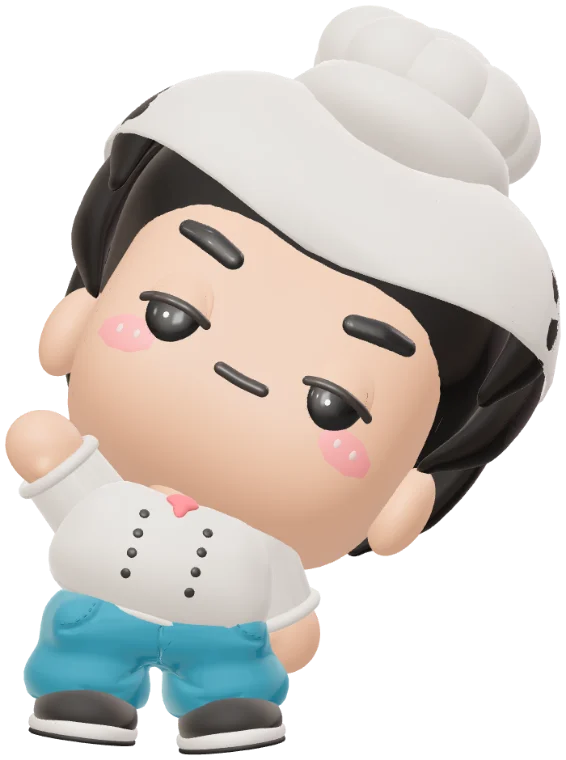
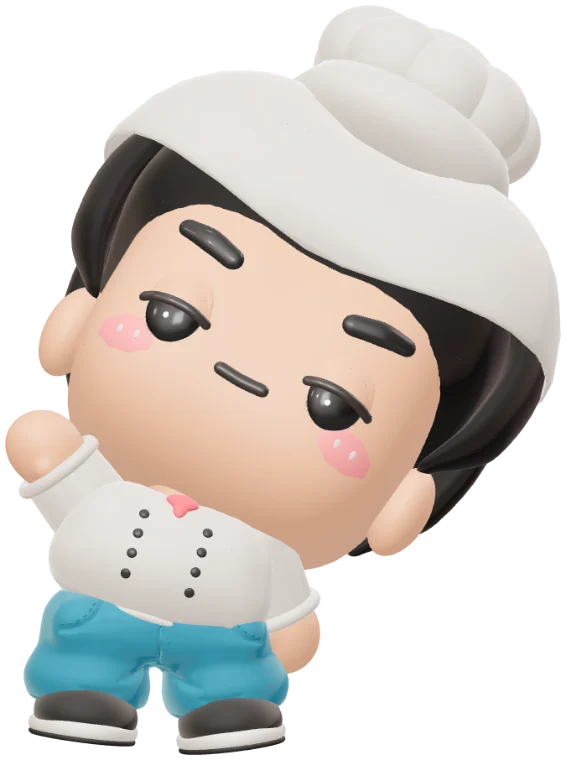
Cocina: estaciones más limpias y bien acomodadas
- Al cambiar de estación, la nueva entra deslizándose y el riel y la barra se quedan quietos
- El vidrio de vasos, jarras y licuadora se ve limpio (sin granito) y las sombras ya no dejan rectángulos
- La carita del chef en la esquina muestra la cara (no solo el gorro) y a Él ya no se le salen mechones por el gorro
- El frasco de propinas pasa a la punta izquierda y «Tomar pedido» queda en el mostrador, delante del que pide
- Tanques de jugo y batidora caben enteros; los tanques van sobre su repisa de acero
- Los íconos de las pestañas caben en su botón (el cuchillo ya no atraviesa la barra)
- En «Picar», una silueta que late marca dónde va el vaso
- El «modo chef» va con el reloj del juego (no se adelanta en celulares lentos)

Claude-Session: https://claude.ai/code/session_01ESjdawmRFTgFfECTU8TBzn

diff --git a/juego/web/src/casa/cocina/motor.ts b/juego/web/src/casa/cocina/motor.ts
@@ -652,11 +652,13 @@ export class Motor {
     this.capa('');
     [0, 0.5, 1, 1.5].forEach((d) => nota(220 + d * 110, 0.5, d, 'sine', 0.03, 440 + d * 220));
     rumor(2.4, 300, 0.05, 0.4, 0.5, 2600);
-    setTimeout(() => {
-      if (this.vista !== 'intro') return;
-      [523, 659, 784, 1046].forEach((f, i) => nota(f, 0.3, i * 0.08, 'triangle', 0.06));
-    }, 2250);
-    setTimeout(() => this.vista === 'intro' && this.terminarIntro(), 4600);
+  }
+  /** El «modo chef» va con el reloj del juego (en un celular lento o en segundo plano no se adelanta ni se corta). */
+  private pasoIntro(dt: number) {
+    const antes = this.introT;
+    this.introT += dt;
+    if (antes < 2.25 && this.introT >= 2.25) [523, 659, 784, 1046].forEach((f, i) => nota(f, 0.3, i * 0.08, 'triangle', 0.06));
+    if (this.introT > 4.6) this.terminarIntro();
   }
   private terminarIntro() {
     if (this.vista !== 'intro') return;
@@ -826,7 +828,7 @@ export class Motor {
 
   // ------------------------------------------------------------------------------------------- Durante el día
   private paso(dt: number) {
-    if (this.vista === 'intro') this.introT += dt;
+    if (this.vista === 'intro') this.pasoIntro(dt);
     if (this.transicion) {
       this.transicion.t += dt;
       if (this.transicion.t > 0.32) this.transicion = null;
@@ -927,7 +929,7 @@ export class Motor {
     return this.W * 0.52 + (i ? 70 + i * 165 : 0);
   }
   puestoEspera(i: number) {
-    return 150 + (i % 6) * 112;
+    return 196 + (i % 6) * 104;
   }
 
   /** Qué tan bien va la espera (100 = no ha esperado de más). */
@@ -1234,14 +1236,20 @@ export class Motor {
   /** Cambia de estación con una transición suave (la anterior se desliza). */
   irA(i: number) {
     if (i === this.actual) return;
-    const c = document.createElement('canvas');
-    c.width = this.lienzo.width;
-    c.height = this.lienzo.height;
-    c.getContext('2d')!.drawImage(this.lienzo, 0, 0);
+    // Foto de cómo se veía (un solo lienzo que se reusa)
+    const c = this.fotoTransicion ?? (this.fotoTransicion = document.createElement('canvas'));
+    if (c.width !== this.lienzo.width || c.height !== this.lienzo.height) {
+      c.width = this.lienzo.width;
+      c.height = this.lienzo.height;
+    }
+    const gc = c.getContext('2d')!;
+    gc.clearRect(0, 0, c.width, c.height);
+    gc.drawImage(this.lienzo, 0, 0);
     this.transicion = { lienzo: c, t: 0, dir: i > this.actual ? 1 : -1 };
     this.actual = i;
     sonidos.clic();
   }
+  private fotoTransicion: HTMLCanvasElement | null = null;
 
   rectTicket(i: number): Rect {
     return { x: 12 + i * 114, y: 6, w: 106, h: RIEL - 14 };
@@ -1292,13 +1300,29 @@ export class Motor {
       // Si las imágenes todavía están cargando, se vuelve a pintar en el siguiente cuadro
       if (listo) this.fondos.set(this.actual, f);
     }
-    g.drawImage(f, 0, 0);
-    g.setTransform(this.k, 0, 0, this.k, 0, 0);
+    // Transición: la estación nueva entra deslizándose y la vieja se va desvaneciendo (riel y barra quietos)
+    const tr = this.transicion;
+    const ek = tr ? 1 - Math.pow(1 - Math.min(1, tr.t / 0.32), 3) : 1;
+    const dx = tr ? tr.dir * (1 - ek) * this.W * 0.22 : 0;
+    if (dx) {
+      g.fillStyle = '#2b1a10';
+      g.fillRect(0, 0, this.lienzo.width, this.lienzo.height);
+    }
+    g.drawImage(f, dx * this.k, 0);
+    g.setTransform(this.k, 0, 0, this.k, dx * this.k, 0);
     if (this.actual === 0) P.dibujarPedidos(this, g);
     else {
       const e = this.estaciones[this.actual - 1];
       e.dibujar(g, this.reloj);
       if (e.usaTicket) P.dibujarTicketGrande(this, g);
+    }
+    if (tr) {
+      const y0 = Math.floor(RIEL * this.k), y1 = Math.ceil((this.H - BARRA) * this.k);
+      g.setTransform(1, 0, 0, 1, 0, 0);
+      g.globalAlpha = 1 - ek;
+      g.drawImage(tr.lienzo, 0, y0, tr.lienzo.width, y1 - y0, -tr.dir * ek * this.lienzo.width * 0.3, y0, tr.lienzo.width, y1 - y0);
+      g.globalAlpha = 1;
+      g.setTransform(this.k, 0, 0, this.k, 0, 0);
     }
     this.fx.dibujar(g);
     for (const fl of this.flotantes) {
@@ -1312,14 +1336,6 @@ export class Motor {
     P.dibujarBarra(this, g);
     if (this.pista && this.reloj < this.pista.hasta) P.dibujarPista(this, g, this.pista.texto);
     if (this.s.fase === 'juicio' && this.s.juicio) P.dibujarJuicio(this, g, this.s.juicio, this.reloj - this.juicioVisto.t0);
-    if (this.transicion) {
-      const k = Math.min(1, this.transicion.t / 0.32);
-      const e = 1 - Math.pow(1 - k, 3);
-      g.setTransform(1, 0, 0, 1, 0, 0);
-      g.globalAlpha = 1 - e;
-      g.drawImage(this.transicion.lienzo, -this.transicion.dir * e * this.lienzo.width * 0.35, 0);
-      g.globalAlpha = 1;
-    }
   }
 
   /** Dibuja un botón de la estación (los de las estaciones usan el mismo estilo). */
@@ -1335,8 +1351,17 @@ export class Motor {
   }
 
   /** Para las pruebas. */
-  probar(que: 'llegar' | 'tomar' | 'fin' | 'jugar' | 'intro' | 'juicio', v = 0) {
+  probar(que: 'llegar' | 'tomar' | 'fin' | 'jugar' | 'intro' | 'juicio' | 'avanzar', v = 0) {
     if (que === 'intro') this.terminarIntro();
+    // Adelanta el juego `v` segundos de una (a 30 cuadros, sin dibujar) y pinta el resultado
+    if (que === 'avanzar') {
+      for (let i = 0; i < Math.round(v * 30); i++) {
+        this.reloj += 1 / 30;
+        this.paso(1 / 30);
+      }
+      this.dibujar();
+      return;
+    }
     if (que === 'jugar') {
       this.terminarIntro();
       if (this.anfitrion) this.jugar();

diff --git a/juego/web/src/casa/cocina/pantallas.ts b/juego/web/src/casa/cocina/pantallas.ts
@@ -388,7 +388,8 @@ export function dibujarPedidos(m: Motor, g: G) {
   }
   const ix = W * 0.52 + 190, iy = my + 26;
   spr(g, 'impresora', ix, iy, 64);
-  const jx = W - 110;
+  // El frasco de propinas en la punta izquierda del mostrador (no tapa la fila, que va a la derecha)
+  const jx = 74;
   if (!spr(g, 'propinas', jx, my + 28, 120)) {
     g.fillStyle = 'rgba(220,240,255,0.55)';
     rr(g, jx - 30, my - 58, 60, 66, 12);
@@ -402,7 +403,8 @@ export function dibujarPedidos(m: Motor, g: G) {
   const pidiendo = s.invitados.some((x) => x.estado === 'pidiendo');
   m.botonTomar = null;
   if (e && !pidiendo && s.fase === 'jugando') {
-    const r = { x: W * 0.52 - 560, y: my - 128, w: 250, h: 72 };
+    // En el frente del mostrador, justo delante del que está pidiendo
+    const r = { x: m.puestoFila(0) - 135, y: my + 22, w: 270, h: 62 };
     m.botonTomar = r;
     const lat = 1 + Math.sin(m.reloj * 5) * 0.035;
     g.save();
@@ -529,6 +531,9 @@ function fondoRiel(m: Motor, g: G) {
   g.drawImage(rielCache.c, 0, 0, W, RIEL);
 }
 
+/** Recorte de la cara en los recortes del chef (el gorro ocupa la parte de arriba). */
+const CARA_CHEF = [0.14, 0.31, 0.72];
+
 function carita(m: Motor, g: G, src: HTMLImageElement, x: number, y: number, r: number, borde = '#fff3e4', recorte = [0.14, 0.06, 0.72]) {
   g.fillStyle = borde;
   elipse(g, x, y, r + 3, r + 3);
@@ -581,7 +586,7 @@ export function dibujarRiel(m: Motor, g: G) {
     }
     // En pareja: la carita del otro en el tiquete que tiene escogido
     if (otro && otro.act === t.id) {
-      carita(m, g, m.img(`./cocina/gente/${m.sync!.otroRol}_chef_feliz.webp`), rr2.x + 14, rr2.y + rr2.h - 26, 13, '#ff8fb8');
+      carita(m, g, m.img(`./cocina/gente/${m.sync!.otroRol}_chef_feliz.webp`), rr2.x + 14, rr2.y + rr2.h - 26, 13, '#ff8fb8', CARA_CHEF);
     }
     g.restore();
   });
@@ -594,10 +599,10 @@ export function dibujarRiel(m: Motor, g: G) {
   texto(g, `🪙 ${m.s.propinas}`, xr, 70, { tam: 22, color: '#ffd46b', alinear: 'right' });
   const pose = m.reloj < m.caraChef.hasta ? m.caraChef.pose : 'concentrado';
   const yo = m.img(`./cocina/gente/${m.rol}_chef_${pose}.webp`);
-  carita(m, g, yo, W - 142, RIEL / 2, 38, '#ffd9a8', [0.12, 0.02, 0.76]);
+  carita(m, g, yo, W - 142, RIEL / 2, 38, '#ffd9a8', CARA_CHEF);
   if (m.otro && m.sync) {
     const o2 = m.img(`./cocina/gente/${m.sync.otroRol}_chef_feliz.webp`);
-    carita(m, g, o2, W - 206, RIEL / 2 + 14, 24, '#ff8fb8', [0.12, 0.02, 0.76]);
+    carita(m, g, o2, W - 206, RIEL / 2 + 14, 24, '#ff8fb8', CARA_CHEF);
   }
 }
 
@@ -629,7 +634,7 @@ export function dibujarBarra(m: Motor, g: G) {
     rr(g, r.x, y, r.w, r.h, 16);
     g.stroke();
     const tieneIcono = hay(nombres[i].icono);
-    if (tieneIcono) spr(g, nombres[i].icono, r.x + 34, y + r.h / 2 + 2, iconoTam(nombres[i].icono));
+    if (tieneIcono) iconoEn(g, nombres[i].icono, r.x + 34, y + r.h / 2 + 2, 54, 48);
     texto(g, tieneIcono ? nombres[i].nombre : `${nombres[i].emoji} ${nombres[i].nombre}`, r.x + (tieneIcono ? 62 : r.w / 2), y + r.h / 2 + 2,
       { tam: 23, color: '#4a2a10', max: r.w - (tieneIcono ? 70 : 16), alinear: tieneIcono ? 'left' : 'center' });
     if (alerta && !act) {
@@ -639,16 +644,17 @@ export function dibujarBarra(m: Motor, g: G) {
       g.fill();
       texto(g, '!', r.x + r.w - 10, y + 9, { tam: 14, color: '#fff' });
     }
-    if (otro && otro.est === i && m.sync) carita(m, g, m.img(`./cocina/gente/${m.sync.otroRol}_chef_feliz.webp`), r.x + r.w - 14, y - 4, 15, '#ff8fb8');
+    if (otro && otro.est === i && m.sync) carita(m, g, m.img(`./cocina/gente/${m.sync.otroRol}_chef_feliz.webp`), r.x + r.w - 14, y - 4, 15, '#ff8fb8', CARA_CHEF);
   });
 }
 
 /** Tamaño de cada ícono de pestaña (para que todos se vean del mismo alto). */
-function iconoTam(id: string) {
+/** Dibuja el recorte `id` centrado en (cx, cy) y metido en una caja de an × al (el cuchillo largo no se sale). */
+export function iconoEn(g: G, id: string, cx: number, cy: number, an: number, al: number) {
   const r = recorte(id);
-  if (!r) return 30;
-  const altoPx = r.a, refPx = r.ref * r.ppm;
-  return (46 / altoPx) * refPx;
+  if (!r) return false;
+  const k = Math.min(an / r.w, al / r.a);
+  return spr(g, id, cx - (r.w / 2 - r.ax) * k, cy - (r.a / 2 - r.ay) * k, r.ref * r.ppm * k);
 }
 
 /** El tiquete escogido, grande, a la derecha de las estaciones que lo usan. */
@@ -705,7 +711,7 @@ export function dibujarManoOtro(m: Motor, g: G) {
   elipse(g, x, y, 26 * k, 26 * k);
   g.stroke();
   g.globalAlpha = 1;
-  carita(m, g, m.img(`./cocina/gente/${m.sync.otroRol}_chef_feliz.webp`), x + 26, y - 26, 16, '#ff8fb8');
+  carita(m, g, m.img(`./cocina/gente/${m.sync.otroRol}_chef_feliz.webp`), x + 26, y - 26, 16, '#ff8fb8', CARA_CHEF);
 }
 
 // ---------------------------------------------------------------------------------------------- La calificación

diff --git a/juego/web/src/casa/cocina/wafles.ts b/juego/web/src/casa/cocina/wafles.ts
@@ -713,6 +713,10 @@ class EstacionBebidas implements Estacion {
     const xi = x0 + ((x1 - x0) - w * bs.length) / 2;
     return bs.map((b, i) => ({ id: b.id, x: xi + i * w + 4, y: RIEL + 16, w: w - 8, h: 270 }));
   }
+  /** Tamaño del tanque para que quepa entero (ancho y alto) en su espacio. */
+  private tamTanque(r: Rect) {
+    return Math.min(r.w * 0.32, r.h * 0.17, 52);
+  }
   private rHielo(): Rect {
     return { x: this.m.zona.w - 192, y: RIEL + 130, w: 176, h: 150 };
   }
@@ -809,13 +813,27 @@ class EstacionBebidas implements Estacion {
       if (!spr(g, `vaso_${r.tam}`, r.x + r.w / 2, r.y + r.h - 44, 150)) dibujarVaso(g, { tam: r.tam, sabor: null, nivel: 0, hielo: 0, mezcla: false }, r.x + r.w / 2, r.y + r.h - 44, 0.9, t);
       texto(g, TAM[r.tam].nombre, r.x + r.w / 2, r.y + r.h - 18, { tam: 15, color: '#fff', borde: 'rgba(40,30,25,0.7)', max: r.w - 4 });
     }
-    // La máquina de jugos: un tanque por sabor
+    // La máquina de jugos: un tanque por sabor, sobre su repisa de acero
     const ll = this.rLlaves();
+    if (ll.length) {
+      const a = ll[0], z = ll[ll.length - 1];
+      const ry = a.y + a.h, x0 = a.x - 14, x1 = z.x + z.w + 14;
+      for (const bx of [x0 + 26, x1 - 26]) {
+        g.fillStyle = lineal(g, bx - 7, 0, bx + 7, 0, [[0, '#8d949c'], [0.5, '#e4e8ec'], [1, '#7c838b']]);
+        g.fillRect(bx - 7, ry, 14, m.H - BARRA - 150 - ry);
+      }
+      g.fillStyle = 'rgba(40,30,25,0.18)';
+      rr(g, x0 + 4, ry + 8, x1 - x0, 16, 6);
+      g.fill();
+      g.fillStyle = lineal(g, 0, ry - 4, 0, ry + 14, [[0, '#f4f6f8'], [0.45, '#c3c9cf'], [1, '#8a9198']]);
+      rr(g, x0, ry - 4, x1 - x0, 18, 6);
+      g.fill();
+    }
     for (const r of ll) {
       const b = BEBIDA[r.id];
       const act = this.chorro === r.id;
       const cx = r.x + r.w / 2, base = r.y + r.h;
-      if (!spr(g, `tanque_${r.id}`, cx, base, Math.min(r.w * 0.48, 70))) {
+      if (!spr(g, `tanque_${r.id}`, cx, base, this.tamTanque(r))) {
         g.fillStyle = lineal(g, 0, r.y + 40, 0, r.y + 150, [[0, mezclar(b.color, '#ffffff', 0.15)], [1, b.color]]);
         rr(g, r.x + 12, r.y + 40, r.w - 24, 106, 10);
         g.fill();
@@ -837,7 +855,7 @@ class EstacionBebidas implements Estacion {
         const b = BEBIDA[this.chorro];
         const r = ll.find((x) => x.id === this.chorro);
         if (r) {
-          const boca = punto(`tanque_${r.id}`, 'boca', r.x + r.w / 2, r.y + r.h, Math.min(r.w * 0.48, 70));
+          const boca = punto(`tanque_${r.id}`, 'boca', r.x + r.w / 2, r.y + r.h, this.tamTanque(r));
           const geo = geoVaso(`vaso_${obra.vaso.tam}`, p.x, p.y, 230, TAM[obra.vaso.tam]);
           chorro(g, boca.x, boca.y, p.x, yEn(geo, zNivel(geo, obra.vaso.nivel)) - 2, b.color, 9, t);
         }

diff --git a/juego/web/src/casa/cocina/fresas.ts b/juego/web/src/casa/cocina/fresas.ts
@@ -506,7 +506,19 @@ class EstacionPicar implements Estacion {
       g.fill();
       texto(g, `${obra.fresas.length} / ${need} fresas`, v.x, v.y - 219, { tam: 21, color: '#fff' });
       botonBotar(g, this.rBotar());
-    } else if (obra) texto(g, '← Escoge el vaso', v.x, v.y - 100, { tam: 22, color: '#fff', borde: 'rgba(40,30,25,0.7)' });
+    } else if (obra) {
+      // El puesto vacío del vaso: silueta punteada que late
+      g.save();
+      g.globalAlpha = 0.55 + 0.25 * Math.sin(t * 4);
+      g.setLineDash([10, 8]);
+      g.strokeStyle = '#fff';
+      g.lineWidth = 3;
+      rr(g, v.x - 62, v.y - 170, 124, 170, 18);
+      g.stroke();
+      g.restore();
+      texto(g, 'Aquí va el vaso', v.x, v.y - 98, { tam: 20, color: '#fff', borde: 'rgba(40,30,25,0.7)', max: 118 });
+      texto(g, '(escógelo a la izquierda)', v.x, v.y - 68, { tam: 15, color: '#fff', borde: 'rgba(40,30,25,0.7)', max: 118 });
+    }
     if (this.volando) {
       const k = this.volando.t / 0.5;
       fresaCortada(g, p.x + (v.x - p.x) * k, p.y + (v.y - 130 - p.y) * k - Math.sin(k * Math.PI) * 130, p.r * (1 - k * 0.7), this.volando.cortes, 4);
@@ -770,7 +782,8 @@ class EstacionBatir implements Estacion {
 
   private dibujarBatidora(g: G, tz: Tazon | null, x: number, by: number, t: number, vertiendo: boolean) {
     const vib = tz?.batiendo ? Math.sin(t * 60) * 1.5 : 0;
-    const tam = 132;
+    // Que quepa entera: debajo del riel y sin meterse en el puesto de al lado (con más batidoras van más chiquitas)
+    const tam = Math.min(110, ((this.m.zona.w - 246) / this.slots.length) * 0.245);
     const bol = punto('batidora', 'bol', x, by, tam);
     const eje = punto('batidora', 'eje', x + vib, by, tam);
     const hayB = hay('batidora');

diff --git a/juego/web/scripts/sprites-cocina.ts b/juego/web/scripts/sprites-cocina.ts
@@ -17,7 +17,7 @@ export interface Pedido {
 }
 
 /** Dibuja el modelo `clave` (el, ella o un cliente del súper) en cada pose y devuelve los recortes en webp. */
-export async function generar(clave: string, pedidos: Pedido[], opciones: { alto?: number; ropa?: Ropa; clipsDe?: string } = {}): Promise<Record<string, string>> {
+export async function generar(clave: string, pedidos: Pedido[], opciones: { alto?: number; ropa?: Ropa; clipsDe?: string; ocultar?: string } = {}): Promise<Record<string, string>> {
   const alto = opciones.alto ?? 320;
   // El lienzo de render crece con el alto pedido (los recortes grandes salen nítidos, sin estirar)
   const H = Math.max(860, Math.round(alto * 1.75)), W = Math.round(H * 0.82);
@@ -41,6 +41,13 @@ export async function generar(clave: string, pedidos: Pedido[], opciones: { alto
   const p = new Personaje({ x: 0, y: 0 }, 1);
   await p.cargarPoses(clave);
   if (opciones.ropa && (clave === 'el' || clave === 'ella')) await new Vestuario(p, clave).aplicar(opciones.ropa);
+  // Mallas que se salen por encima de la prenda (p. ej. los mechones de las sienes de Él atraviesan el gorro de chef)
+  if (opciones.ocultar) {
+    const re = new RegExp(opciones.ocultar, 'i');
+    p.grupo.traverse((o) => {
+      if ((o as THREE.Mesh).isMesh && re.test(o.name)) o.visible = false;
+    });
+  }
   escena.add(p.grupo);
   // Los muñecos del súper solo traen caminar y reposo: se les prestan las poses de Él o de Ella (mismo esqueleto)
   let prestadas: { mezclador: THREE.AnimationMixer; clips: THREE.AnimationClip[] } | null = null;

diff --git a/personajes/blender/cocina_atlas.py b/personajes/blender/cocina_atlas.py
@@ -13,7 +13,8 @@ import json
 import os
 import sys
 
-from PIL import Image
+import numpy as np
+from PIL import Image, ImageFilter
 
 LADO = 2048
 SEP = 2
@@ -28,6 +29,47 @@ def recortar(im):
     x0, y0 = max(0, x0 - 1), max(0, y0 - 1)
     x1, y1 = min(im.width, x1 + 1), min(im.height, y1 + 1)
     return im.crop((x0, y0, x1, y1)), (x0, y0)
+
+
+def difuminar_sombra(im, clave):
+    """La sombra del render llega hasta el borde del cuadro y se ve como un rectángulo: se desvanece cerca de los bordes.
+    Solo toca lo que es sombra (oscuro y medio transparente); el objeto queda igual."""
+    if clave.startswith('rejilla'):
+        return im  # piezas que se repiten pegadas: el borde es el objeto
+    a = np.asarray(im).astype(np.float32)
+    h, w = a.shape[:2]
+    lum = a[..., :3].mean(-1)
+    margen = max(6.0, 0.22 * min(w, h))
+    yy, xx = np.mgrid[0:h, 0:w]
+    d = np.minimum(np.minimum(xx, w - 1 - xx), np.minimum(yy, h - 1 - yy)).astype(np.float32)
+    f = np.clip(d / margen, 0, 1)
+    f = f * f * (3 - 2 * f)
+    peso = np.clip((60 - lum) / 30, 0, 1) * np.clip((235 - a[..., 3]) / 60, 0, 1)
+    a[..., 3] *= 1 - peso * (1 - f)
+    return Image.fromarray(a.clip(0, 255).astype(np.uint8), 'RGBA')
+
+
+VIDRIO = ('vaso_', 'vasofresa_', 'vasofrappe_', 'licuadora_jarra', 'wafflera_tapa', 'jarra_')
+
+
+def limpiar_vidrio(im, clave):
+    """El vidrio sale del render con granito (el alfa del vidrio transparente no pasa por el quitarruido) y sobre un
+    fondo claro se ve sucio: se suaviza lo medio transparente y se aclara un poco, como vidrio limpio."""
+    if not clave.startswith(VIDRIO):
+        return im
+    a = np.asarray(im).astype(np.float32) / 255
+    alfa = a[..., 3:4]
+    pre = np.concatenate([a[..., :3] * alfa, alfa], axis=-1)
+    canales = [Image.fromarray((pre[..., i] * 255).clip(0, 255).astype(np.uint8)).filter(ImageFilter.GaussianBlur(1.6)) for i in range(4)]
+    suave = np.stack([np.asarray(c).astype(np.float32) / 255 for c in canales], axis=-1)
+    # Solo en lo medio transparente (el logo, los bordes gruesos y lo de adentro quedan nítidos)
+    peso = np.clip((0.92 - alfa) / 0.25, 0, 1)
+    pre = pre * (1 - peso) + suave * peso
+    al = pre[..., 3:4]
+    rgb = np.where(al > 1e-4, pre[..., :3] / np.maximum(al, 1e-4), 0)
+    rgb = rgb + (1 - rgb) * 0.4 * peso
+    out = np.concatenate([rgb, al], axis=-1)
+    return Image.fromarray((out * 255).clip(0, 255).astype(np.uint8), 'RGBA')
 
 
 def empacar(piezas):
@@ -78,6 +120,7 @@ def main():
             print(f'{clave}: {im.width}x{im.height} {os.path.getsize(ruta) // 1024} KB')
             continue
         esc = info.pop('escala', 1.0)
+        im = limpiar_vidrio(difuminar_sombra(im, clave), clave)
         if esc != 1.0:
             im = im.resize((max(1, round(im.width * esc)), max(1, round(im.height * esc))), Image.LANCZOS)
         im, (ox, oy) = recortar(im)
